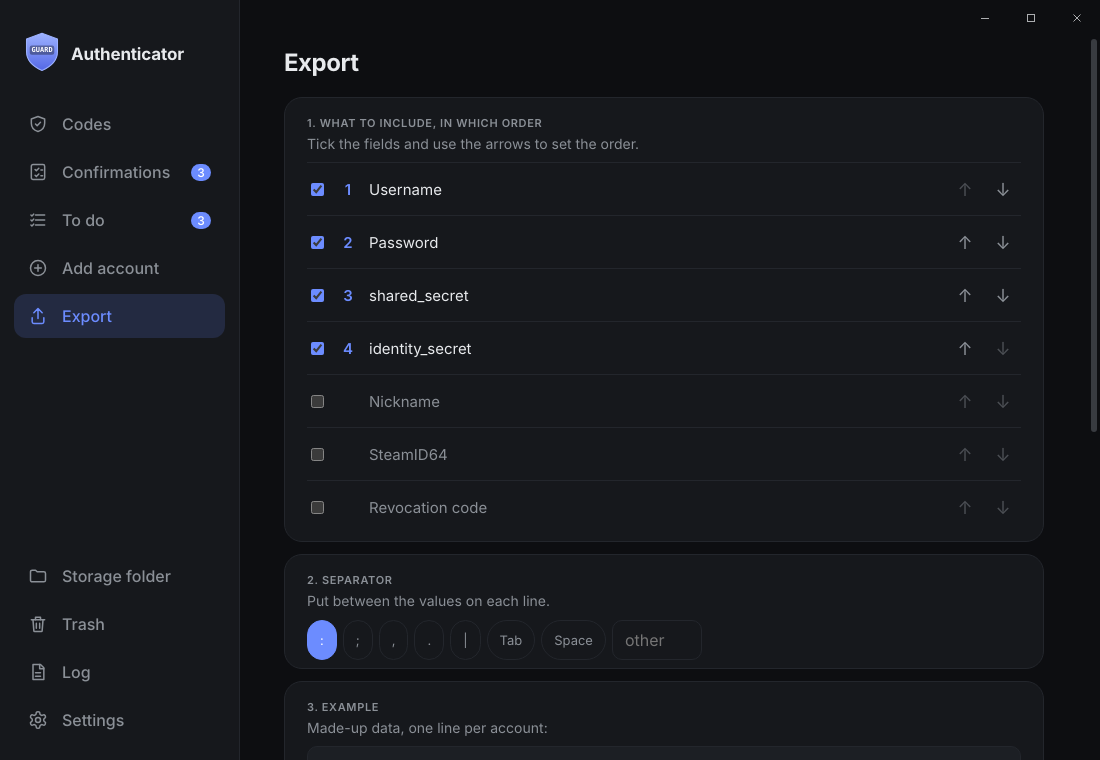
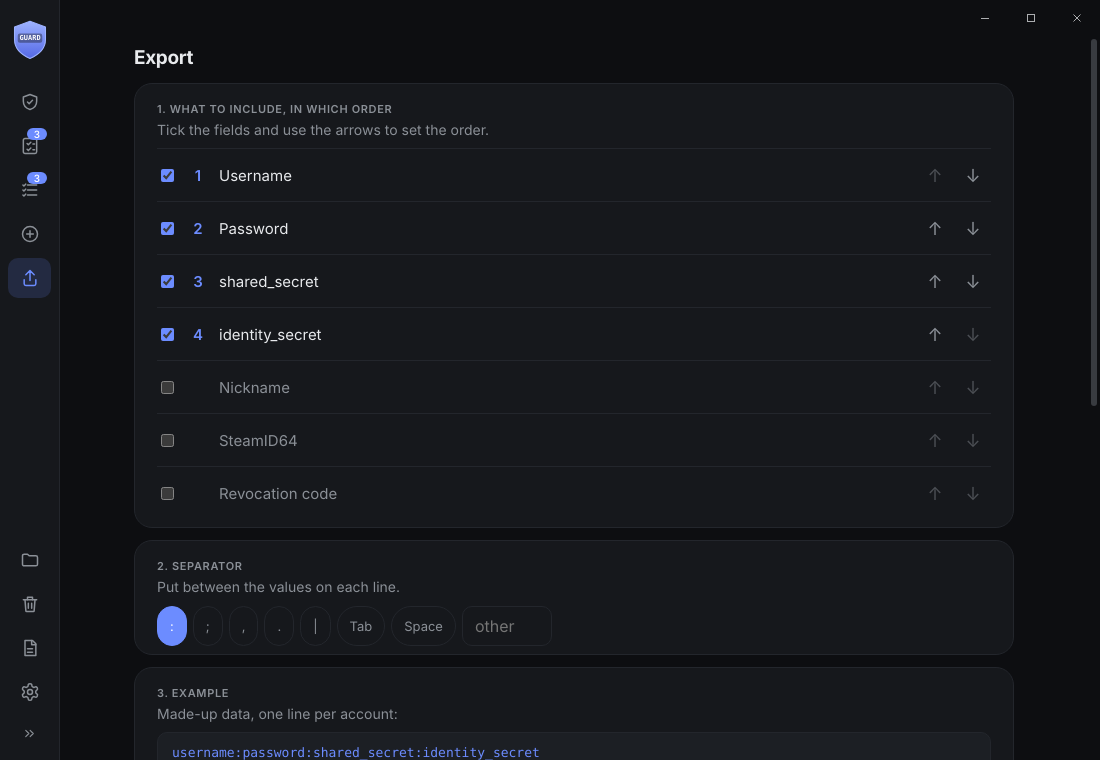
Settings in tabs, theme in settings, refreshed README screenshots
Claude-Session: https://claude.ai/code/session_01DW1HzNu7DPUhuZ6F8TPH3n

diff --git a/src/renderer/main.ts b/src/renderer/main.ts
@@ -231,9 +231,6 @@ const ICONS: Record<string, string> = {
 	add: '<circle cx="12" cy="12" r="9"/><path d="M12 8v8M8 12h8"/>',
 	settings: '<path d="M12.22 2h-.44a2 2 0 0 0-2 2v.18a2 2 0 0 1-1 1.73l-.43.25a2 2 0 0 1-2 0l-.15-.08a2 2 0 0 0-2.73.73l-.22.38a2 2 0 0 0 .73 2.73l.15.1a2 2 0 0 1 1 1.72v.51a2 2 0 0 1-1 1.74l-.15.09a2 2 0 0 0-.73 2.73l.22.38a2 2 0 0 0 2.73.73l.15-.08a2 2 0 0 1 2 0l.43.25a2 2 0 0 1 1 1.73V20a2 2 0 0 0 2 2h.44a2 2 0 0 0 2-2v-.18a2 2 0 0 1 1-1.73l.43-.25a2 2 0 0 1 2 0l.15.08a2 2 0 0 0 2.73-.73l.22-.39a2 2 0 0 0-.73-2.73l-.15-.08a2 2 0 0 1-1-1.74v-.5a2 2 0 0 1 1-1.74l.15-.09a2 2 0 0 0 .73-2.73l-.22-.38a2 2 0 0 0-2.73-.73l-.15.08a2 2 0 0 1-2 0l-.43-.25a2 2 0 0 1-1-1.73V4a2 2 0 0 0-2-2z"/><circle cx="12" cy="12" r="3"/>',
 	log: '<path d="M6 3h9l4 4v14H6z"/><path d="M14 3v5h5M9 13h6M9 17h6"/>',
-	'theme-system': '<rect x="3" y="4" width="18" height="12" rx="2"/><path d="M8 20h8M12 16v4"/>',
-	'theme-light': '<circle cx="12" cy="12" r="4"/><path d="M12 2v2M12 20v2M4.9 4.9l1.4 1.4M17.7 17.7l1.4 1.4M2 12h2M20 12h2M4.9 19.1l1.4-1.4M17.7 6.3l1.4-1.4"/>',
-	'theme-dark': '<path d="M20 14.5A8 8 0 0 1 9.5 4 8 8 0 1 0 20 14.5z"/>',
 	vac: '<path d="M12 3 4 6v5c0 5 3.4 8.5 8 10 4.6-1.5 8-5 8-10V6z"/><path d="m9.5 9.5 5 5m0-5-5 5"/>',
 	game: '<rect x="2.5" y="7" width="19" height="10" rx="5"/><path d="M7 10v4M5 12h4M15.5 11h.01M18 13h.01"/><path d="m4 4 16 16"/>',
 	community: '<path d="M4 5h16v11H9l-5 4z"/><path d="m9.5 8.5 5 4m0-4-5 4"/>',
@@ -312,11 +309,6 @@ function buildShell(): void {
 			item('log', 'Log', () => void navigate({ name: 'log' }), true),
 			item('settings', 'Settings', () => void navigate({ name: 'settings' })),
 			el('div', { class: 'mini-row' },
-				el('button', { class: 'mini theme', type: 'button', onclick: async () => {
-					const next = ({ system: 'light', light: 'dark', dark: 'system' } as const)[settings.theme];
-					const r = await api.setSettings({ theme: next });
-					if (r.ok) applySettings(r.value);
-				} }, el('span', { class: 'ico' })),
 				el('button', { class: 'mini collapse', type: 'button', onclick: async () => {
 					const r = await api.setSettings({ sidebarCollapsed: !settings.sidebarCollapsed });
 					if (r.ok) applySettings(r.value);
@@ -382,13 +374,6 @@ function applySettings(s: Settings): void {
 	if (s.theme === 'system') delete document.documentElement.dataset['theme'];
 	else document.documentElement.dataset['theme'] = s.theme;
 	document.body.classList.toggle('wide', s.layout !== 'list');
-	const th = document.querySelector<HTMLElement>('.mini.theme');
-	if (th) {
-		const label = { system: 'Theme: system', light: 'Theme: light', dark: 'Theme: dark' }[s.theme];
-		th.title = `${label}. Click to change`;
-		th.setAttribute('aria-label', th.title);
-		th.querySelector('.ico')!.innerHTML = `<svg viewBox="0 0 24 24" width="15" height="15" fill="none" stroke="currentColor" stroke-width="1.8" stroke-linecap="round" stroke-linejoin="round" aria-hidden="true">${ICONS[`theme-${s.theme}`]}</svg>`;
-	}
 	document.querySelector('.shell')?.classList.toggle('collapsed', s.sidebarCollapsed);
 	const t = document.querySelector<HTMLElement>('.mini.collapse');
 	if (t) {
@@ -911,7 +896,7 @@ async function listScreen(): Promise<void> {
 				el('div', { class: 'kb-text' }, el('strong', { textContent: 'Add a Steam Web API key' }), el('span', { textContent: 'Without it community bans, game bans and ban dates are not checked, only VAC and trade bans.' })),
 				el('div', { class: 'row-actions' },
 					el('button', { class: 'small', type: 'button', textContent: 'Not now', onclick: () => { keyBanner.classList.add('leaving'); window.setTimeout(() => keyBanner.remove(), 200); void api.setSettings({ hideKeyHint: true }).then((s) => { if (s.ok) settings = s.value; }); } }),
-					el('button', { class: 'small primary', type: 'button', textContent: 'Add key', onclick: () => { void navigate({ name: 'settings' }).then(() => document.querySelector<HTMLElement>('.key-row input')?.focus()); } })));
+					el('button', { class: 'small primary', type: 'button', textContent: 'Add key', onclick: () => { settingsTab = 'bans'; void navigate({ name: 'settings' }).then(() => document.querySelector<HTMLElement>('.key-row input')?.focus()); } })));
 		});
 	}
 	show(header, strip.node, el('main', {}, keyBanner, overview, filterBar, list, none, empty));
@@ -2096,6 +2081,7 @@ function apiKeyRow(): HTMLElement {
 		status);
 }
 
+let settingsTab = 'general';
 async function settingsScreen(): Promise<void> {
 	const s = settings;
 	const healthBox = el('div', { class: 'health-box' });
@@ -2162,25 +2148,35 @@ async function settingsScreen(): Promise<void> {
 		...s.importFolders.map((f) => el('li', {}, el('span', { class: 'path', title: f, textContent: f }), el('button', { class: 'icon', title: 'Remove folder', ariaLabel: `Remove ${f}`, textContent: '✕', onclick: () => void set({ importFolders: s.importFolders.filter((x) => x !== f) }) })))
 	);
 
-	show(
-		backHeader('Settings'),
-		el(
-			'main',
-			{ class: 'settings' },
-			el('h2', { textContent: 'Appearance' }),
-			row('Theme', '', select(s.theme, [['system', 'System'], ['dark', 'Dark'], ['light', 'Light']], (v) => void set({ theme: v }), 'Theme')),
-			row('Watch for bans', 'VAC and trade bans, read from the same public profile page as the name and picture (about every 12 hours per account, no extra request). A new ban is reported as soon as it is seen', toggle(s.checkBans, (v) => void set({ checkBans: v }), 'Watch for bans')),
+	const tabDefs: [string, string][] = [['general', 'General'], ['bans', 'Bans'], ['confirmations', 'Confirmations'], ['security', 'Security'], ['import', 'Import and updates'], ['about', 'Health and about']];
+	const pages: Record<string, HTMLElement[]> = {
+		general: [
+			row('Theme', 'System follows your Windows setting', el('span', { class: 'seg-group text' }, ...(['system', 'light', 'dark'] as const).map((t) =>
+				el('button', { class: `seg${s.theme === t ? ' on' : ''}`, type: 'button', textContent: { system: 'System', light: 'Light', dark: 'Dark' }[t], onclick: () => void set({ theme: t }) })))),
 			row('Show Steam nickname', 'Instead of the login name, which then appears under it. Taken from the public profile', toggle(s.showNickname, (v) => void set({ showNickname: v }), 'Show Steam nickname')),
 			row('Show SteamID64', 'Under each account name', toggle(s.showSteamId, (v) => void set({ showSteamId: v }), 'Show SteamID64')),
 			row('Show profile pictures', 'Fetched from the public profile, at most once a week per account', toggle(s.showAvatars, (v) => void set({ showAvatars: v }), 'Show profile pictures')),
+		],
+		bans: [
+			row('Watch for bans', 'VAC and trade bans, read from the same public profile page as the name and picture (about every 12 hours per account, no extra request). A new ban is reported as soon as it is seen', toggle(s.checkBans, (v) => void set({ checkBans: v }), 'Watch for bans')),
 			apiKeyRow(),
-			el('h2', { textContent: 'Confirmations' }),
+		],
+		confirmations: [
 			row('Check when the app starts', 'One round, one account at a time', toggle(s.checkOnStartup, (v) => void set({ checkOnStartup: v }), 'Check when the app starts')),
 			row('Check repeatedly', 'Off is safest. Steam rate-limits frequent checks', select(s.autoCheckSeconds, [[0, 'Never, only with the button'], [300, 'Every 5 minutes'], [900, 'Every 15 minutes'], [1800, 'Every 30 minutes']], (v) => void set({ autoCheckSeconds: v }), 'Check interval')),
-			el('h2', { textContent: 'Clipboard' }),
-			row('Clear after copying', 'Codes and secrets', select(s.clipboardClearSeconds, [[0, 'Never'], [15, '15 seconds'], [30, '30 seconds'], [60, '1 minute']], (v) => void set({ clipboardClearSeconds: v }), 'Clear clipboard')),
-			el('h2', { textContent: 'Security' }),
+		],
+		security: [
 			...securityRows(),
+			row('Clear after copying', 'Codes and secrets', select(s.clipboardClearSeconds, [[0, 'Never'], [15, '15 seconds'], [30, '30 seconds'], [60, '1 minute']], (v) => void set({ clipboardClearSeconds: v }), 'Clear clipboard')),
+		],
+		import: [
+			row('Check for updates', 'Asks GitHub each time the app starts if a newer release exists and tells you. Nothing is downloaded or installed', el('div', { class: 'row-actions left' },
+				el('button', { class: 'small', type: 'button', textContent: 'Check now', onclick: async () => { const found = await checkForUpdate(true); if (!found) toast('You have the latest version'); } }),
+				toggle(s.checkUpdates, (v) => void set({ checkUpdates: v }), 'Check for updates')),),
+			row('Find SDA folders automatically', 'Looks for folders named maFiles in Downloads, Desktop and Documents when the app starts', toggle(s.autoDetect, (v) => void set({ autoDetect: v }), 'Find SDA folders automatically')),
+			el('div', { class: 'setting stack' }, el('span', { class: 'setting-label', textContent: 'Watched folders' }), s.importFolders.length ? folders : el('span', { class: 'hint', textContent: 'None added.' }), el('div', { class: 'row-actions left' }, el('button', { class: 'small', textContent: 'Add folder…', onclick: async () => { const r = await api.addFolder(); if (r.ok) { applySettings(r.value); void settingsScreen(); } else toast(r.error, true); } }), el('button', { class: 'small', textContent: 'Scan now', onclick: async () => { const r = await api.rescan(); if (!r.ok) return toast(r.error, true); toast(r.value.added.length ? `Imported ${r.value.added.join(', ')}` : 'Nothing new found'); } }))),
+		],
+		about: [
 			el('h2', { textContent: 'Health check' }),
 			el('div', { class: 'setting stack' },
 				el('span', { class: 'hint', textContent: 'Checks every account on this PC: secrets valid, sign-in state, saved password, revocation code, and how far your clock is from Steam. Only the time is asked from Steam.' }),
@@ -2198,17 +2194,18 @@ async function settingsScreen(): Promise<void> {
 							...(x.issues.length ? x.issues.map((t) => el('span', { class: 'hint', textContent: t })) : [el('span', { class: 'hint', textContent: 'Everything in order' })]))));
 				} })),
 				healthBox),
-			el('h2', { textContent: 'Importing' }),
-			row('Check for updates', 'Asks GitHub each time the app starts if a newer release exists and tells you. Nothing is downloaded or installed', el('div', { class: 'row-actions left' },
-				el('button', { class: 'small', type: 'button', textContent: 'Check now', onclick: async () => { const found = await checkForUpdate(true); if (!found) toast('You have the latest version'); } }),
-				toggle(s.checkUpdates, (v) => void set({ checkUpdates: v }), 'Check for updates')),),
-			row('Find SDA folders automatically', 'Looks for folders named maFiles in Downloads, Desktop and Documents when the app starts', toggle(s.autoDetect, (v) => void set({ autoDetect: v }), 'Find SDA folders automatically')),
-			el('div', { class: 'setting stack' }, el('span', { class: 'setting-label', textContent: 'Watched folders' }), s.importFolders.length ? folders : el('span', { class: 'hint', textContent: 'None added.' }), el('div', { class: 'row-actions left' }, el('button', { class: 'small', textContent: 'Add folder…', onclick: async () => { const r = await api.addFolder(); if (r.ok) { applySettings(r.value); void settingsScreen(); } else toast(r.error, true); } }), el('button', { class: 'small', textContent: 'Scan now', onclick: async () => { const r = await api.rescan(); if (!r.ok) return toast(r.error, true); toast(r.value.added.length ? `Imported ${r.value.added.join(', ')}` : 'Nothing new found'); } }))),
+
 			el('p', { class: 'hint fine', id: 'ver' }),
 			el('p', { class: 'hint fine', textContent: 'New accounts are copied; existing ones are never overwritten and your originals are never changed. Passwords you choose to save, and the sign-in token, are kept next to your maFiles (credentials.json and sessions.json), in plain text unless you set a master password under Security.' }),
 			el('div', { class: 'about' }, logo(44), el('div', {}, el('strong', { textContent: 'Authenticator' }), el('p', { class: 'hint', textContent: '© 2026 github.com/AnotherAsianDev. MIT License.' }), el('p', { class: 'hint fine', textContent: 'Not affiliated with or endorsed by Valve. Steam is a trademark of Valve Corporation.' })))
-		)
-	);
+		]
+	};
+	const tabBar = el('div', { class: 'tabs', role: 'tablist' }, ...tabDefs.map(([id, label]) =>
+		el('button', { class: `tab${settingsTab === id ? ' on' : ''}`, type: 'button', role: 'tab', ariaSelected: String(settingsTab === id), textContent: label, onclick: () => { settingsTab = id; void settingsScreen(); } })));
+	const redraw = !!content.querySelector('.settings');
+	const scroll = content.scrollTop;
+	show(backHeader('Settings'), el('main', { class: 'settings' }, tabBar, el('div', { class: 'tab-page' }, ...pages[settingsTab]!)));
+	if (redraw) { content.classList.remove('enter'); content.scrollTop = scroll; }
 	void api.version().then((v) => { const n = document.getElementById('ver'); if (n && v.ok) n.textContent = `Version ${v.value}. To update, drop the new folder over this one and choose Replace. Your maFiles and data stay.`; });
 	refreshView = () => undefined;
 }

diff --git a/src/renderer/style.css b/src/renderer/style.css
@@ -510,3 +510,12 @@ button:active:not(:disabled) { transform: scale(.97); }
 .row { transition: border-color .15s, background-color .25s, transform .15s, box-shadow .15s; }
 .row:hover { transform: translateY(-1px); box-shadow: 0 4px 14px rgba(0,0,0,.14); }
 .ctx-item { transition: background-color .1s; }
+
+/* ------------------------------------------------------------ settings tabs -- */
+.tabs { display: flex; flex-wrap: wrap; gap: 4px; padding: 4px; margin-bottom: 8px; background: var(--surface); border: 1px solid var(--line); border-radius: 12px; }
+.tab { padding: 6px 12px; border-radius: 8px; font-size: 13px; color: var(--muted); }
+.tab:hover { color: var(--text); background: var(--raised); }
+.tab.on { color: var(--text); background: color-mix(in srgb, var(--accent) 22%, var(--surface)); }
+.tab-page { animation: rise .22s cubic-bezier(.2,.7,.2,1); }
+.seg-group.text { margin-left: 0; }
+.seg-group.text .seg { font-size: 13px; padding: 6px 14px; }

diff --git a/README.md b/README.md
@@ -6,6 +6,10 @@ A lean desktop Steam Guard authenticator for Windows. Plain maFiles next to the 
 
 <table>
 <tr>
+<td width="50%"><img src="docs/screenshots/grid.png" alt="Grid layout"><br><sub>List, columns or grid layout, with an icon per ban type</sub></td>
+<td width="50%"><img src="docs/screenshots/settings.png" alt="Settings"><br><sub>Settings in tabs: theme, bans and API key, security, import</sub></td>
+</tr>
+<tr>
 <td width="50%"><img src="docs/screenshots/confirmations.png" alt="Confirmations"><br><sub>Confirmations across all accounts, grouped and filterable</sub></td>
 <td width="50%"><img src="docs/screenshots/account.png" alt="Account page"><br><sub>Account page: copy fields, open Steam signed in</sub></td>
 </tr>
@@ -42,7 +46,7 @@ Minimal desktop Steam Guard authenticator (Electron + TypeScript, no UI framewor
   A refresh token is kept in `sessions.json` (plain text).
 - **Copy** username, password (if saved), shared secret, identity secret, revocation code, SteamID64.
 - **Profile pictures** from the public profile (no API key), at most once a week per account.
-- **Settings:** theme (system, light or dark; quick switch in the menu), show SteamID64, pictures, check on startup / optional interval, clipboard clearing, import folders.
+- **Settings:** in tabs: theme (system, light or dark), nickname, SteamID64, pictures, ban watching and the optional API key, check on startup / optional interval, clipboard clearing, master password and PIN, updates, import folders, health check.
 
     npm install      (PowerShell: npm.cmd install)
     npm test

diff --git a/CHANGELOG.md b/CHANGELOG.md
@@ -15,6 +15,8 @@
 - Ban check: the public profile page that is already read for the name and picture also says whether an account has a VAC ban or a trade ban. Such accounts get a red tag in the list, a "banned" chip in the overview, a section on the account page and a line in the Health check, and a new ban is reported as soon as it is seen. Profiles are now read about every 12 hours per account instead of weekly (one request each, the picture only when it changed). Turn it off with Settings, Watch for bans. Community bans and game bans are not part of that page; see the notes.
 - Export, Codes and the account page: pinned accounts first, as before.
 - Cleanup: the stylesheet's account-list rules are now one section instead of layered overrides; ban texts live in one place; removed the Density setting (the design is compact now), unused code and imports, and merged the profile name and picture address files into one `data/avatars/profiles.json` (older files are read once and carried over). The build now fails on unused code.
+- Settings are split into tabs (General, Bans, Confirmations, Security, Import and updates, Health and about). The theme (System, Light, Dark) is now chosen there as a three-way switch instead of an icon in the side menu.
+- README screenshots redone for the new design, plus grid and settings.
 - Grid layout: roomier cards; name and login name stay together, status icons sit on their own line below them. Fixed the star overlapping the details arrow.
 
 ## 0.8.0
